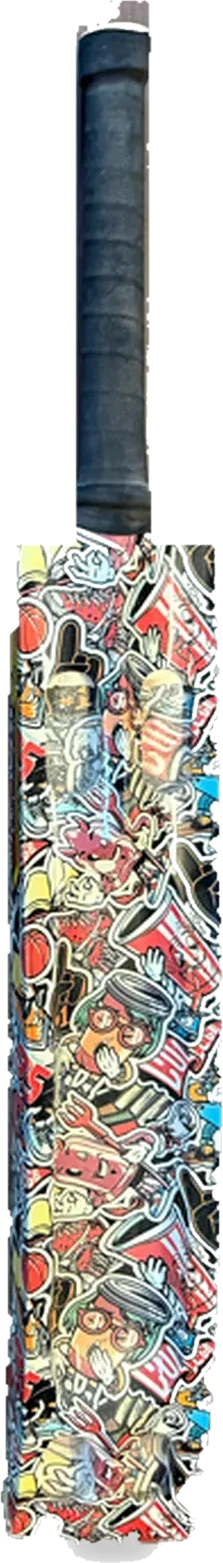
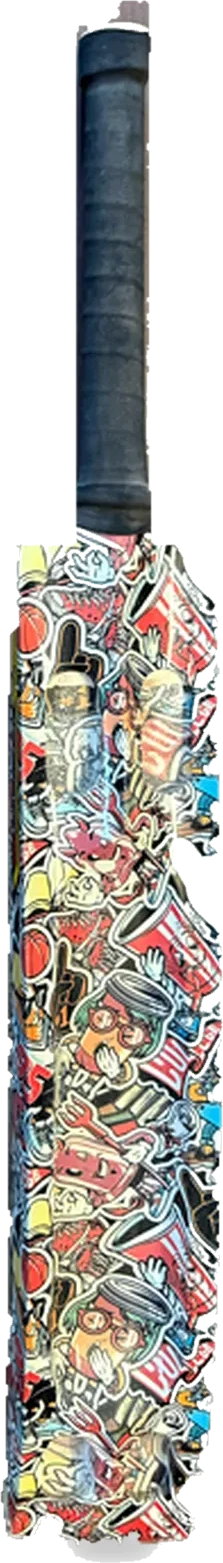
Use the face-on bat photos in the hero, and drop shadow islands in cutouts
Three of the four hero shots were the wrong frame from their own photo
set. The varnished bat and the leather-ball bat were EDGE-ON side views:
a bat photographed on its edge is a stick, so the cutout trimmed to
125px and 185px wide and there was nothing there to be sharp. No amount
of srcset work fixes a source that narrow.

  varnished-bat-2  125px side  ->  varnished-bat-3   248px face
  leather-ball-2   185px side  ->  leather-ball-1    272px face
  power-x-v2       186px       ->  power-x-front     213px face

Roughly double the horizontal resolution on two of the four, no
re-shoot, and both replacements are TOSS-branded where the side views
showed no branding at all.

The leather-ball side view also carried a studio artifact: a pale
tapering spike beside the handle that rendered on the page as a white
sliver next to the bat. It is gone with the frame.

cutout-photos.js now drops disconnected components under 2% of the
largest before feathering. The backdrop fill can only clear what it can
walk to from the frame edge, so a sweep shadow darker than TOL survives
as a detached island of opaque pixels — sri-lankan-mri-4 was shipping
14,085 such pixels. The floor is not zero because some frames hold two
bats and a genuine second object should survive; a shadow never
approaches 2%.

The hero's short-screen breakpoint moves 890px -> 930px. That number is
measured, not chosen: it marks where the full-size hero stops fitting,
[…]

diff --git a/seo/cutout-photos.js b/seo/cutout-photos.js
@@ -58,6 +58,68 @@ function backdropMask(data, w, h, ch) {
   return seen;
 }
 
+/* ------------------------------------------------------------
+   Drop everything that is not the product.
+
+   The backdrop fill can only clear pixels it can WALK TO from the
+   frame edge through near-white. That rule is what protects a
+   highlight enclosed by the blade — but it also protects anything
+   the walk cannot cross. A soft sweep shadow sitting at rgb(199)
+   is darker than TOL, so the fill stops dead at it and the whole
+   shadow survives as a detached island of opaque pixels.
+
+   That is exactly what was happening to the leather-ball bat: a
+   grey strip about 20px wide floating clear of the blade, which
+   rendered in the hero as a white sliver next to the bat and read
+   as a printing error.
+
+   A bat is one connected object, so anything not joined to the
+   largest blob is not the bat. Components under 2% of the largest
+   are cleared; the threshold is not zero because a genuine second
+   object in frame — some of these shots have two bats — should
+   survive, and a shadow never comes close to 2%.
+
+   8-connectivity, so a diagonal seam in the anti-aliasing cannot
+   split the blade from its own handle.
+   ------------------------------------------------------------ */
+function dropIslands(mask, w, h) {
+  const label = new Int32Array(w * h).fill(-1);
+  const sizes = [];
+  const stack = [];
+
+  for (let start = 0; start < mask.length; start++) {
+    if (mask[start] || label[start] !== -1) continue;   // backdrop, or done
+    const id = sizes.length;
+    let n = 0;
+    stack.push(start); label[start] = id;
+    while (stack.length) {
+      const i = stack.pop(); n++;
+      const x = i % w, y = (i / w) | 0;
+      for (let dy = -1; dy <= 1; dy++) {
+        for (let dx = -1; dx <= 1; dx++) {
+          if (!dx && !dy) continue;
+          const nx = x + dx, ny = y + dy;
+          if (nx < 0 || ny < 0 || nx >= w || ny >= h) continue;
+          const j = ny * w + nx;
+          if (mask[j] || label[j] !== -1) continue;
+          label[j] = id; stack.push(j);
+        }
+      }
+    }
+    sizes.push(n);
+  }
+
+  if (sizes.length < 2) return 0;                       // nothing detached
+  const biggest = Math.max(...sizes);
+  const floor = biggest * 0.02;
+  let removed = 0;
+  for (let i = 0; i < mask.length; i++) {
+    const id = label[i];
+    if (id >= 0 && sizes[id] < floor) { mask[i] = 1; removed++; }
+  }
+  return removed;
+}
+
 /* A hard mask leaves a stair-stepped edge that looks cheap at large
    sizes. Any pixel touching both states gets part alpha, which is
    enough to read as a clean cut. */
@@ -90,6 +152,11 @@ async function cut(file) {
      out would be wrong. Leave those alone rather than guess. */
   if (share < 0.15) return { file, skipped: 'not a white-sweep shot', share };
 
+  /* After the backdrop, before the feather: islands have to go while the
+     mask is still hard, or the feather would draw a soft edge around a
+     shadow we are about to delete. */
+  const islandPx = dropIslands(mask, w, h);
+
   const alpha = feather(mask, w, h);
   const out = Buffer.alloc(w * h * 4);
   for (let i = 0; i < w * h; i++) {
@@ -111,6 +178,7 @@ async function cut(file) {
   return {
     file, wrote: WRITE ? path.basename(dest) : '(dry run)',
     backdropRemoved: (share * 100).toFixed(0) + '%',
+    islands: islandPx ? islandPx + 'px' : '-',
     from: `${w}x${h}`, kb: after ? Math.round(after / 1024) + 'kB' : '-'
   };
 }
@@ -129,7 +197,10 @@ async function cut(file) {
   const skipped = done.filter(d => d.skipped);
   const failed  = done.filter(d => d.error);
 
-  made.forEach(d => console.log(`  cut  ${d.file}  (${d.backdropRemoved} backdrop)  ${d.kb}`));
+  /* The island count is worth printing: it is the number that tells you a
+     shadow or a reflection was being shipped as part of the product. */
+  made.forEach(d => console.log(`  cut  ${d.file}  (${d.backdropRemoved} backdrop)` +
+    (d.islands !== '-' ? `  islands ${d.islands}` : '') + `  ${d.kb}`));
   skipped.forEach(d => console.log(`  keep ${d.file}  — ${d.skipped}`));
   failed.forEach(d => console.log(`  FAIL ${d.file}  — ${d.error}`));
 

diff --git a/js/app.js b/js/app.js
@@ -798,21 +798,41 @@ function viewHome() {
      on a Retina one — which is the softness and the stair-stepped edges,
      not a bad cutout. The alpha edge measures 2% soft pixels and 0.3%
      leftover backdrop; the artwork was never the problem. */
+  /* FACE-ON SHOTS, and that is the quality fix.
+
+     Three of these were the wrong frame from their own photo set. The
+     varnished bat and the leather-ball bat were EDGE-ON side views —
+     a bat photographed on its edge is a stick, so the cutout trimmed to
+     125px and 185px wide and there was nothing there to be sharp. The
+     leather-ball side view also carried a studio artifact: a pale
+     tapering spike beside the handle, joined to the blade low down so it
+     survived every cleanup, and rendered on the page as a white sliver
+     next to the bat.
+
+     The face-on frames were sitting in images/product/ the whole time:
+
+       varnished-bat-2  125px  side  ->  varnished-bat-3   248px  face
+       leather-ball-2   185px  side  ->  leather-ball-1    272px  face
+       power-x-v2       186px        ->  power-x-front     213px  face
+
+     That is roughly double the horizontal resolution on two of the four,
+     no re-shoot, and the two replacements are TOSS-branded where the
+     side views showed no branding at all. */
   const HERO_SHOTS = [
-    { img: 'power-x-v2',        href: '#/product/power-x',
-      w: [59, 145, 186],
+    { img: 'power-x-front',      href: '#/product/power-x',
+      w: [69, 167, 213],
       alt: 'Toss Power X — handmade Sri Lankan willow bat',
       label: 'Toss Power X',       note: '3 years of research' },
-    { img: 'sri-lankan-mri-2',  href: '#/shop?wood=srilankan',
+    { img: 'sri-lankan-mri-2',   href: '#/shop?wood=srilankan',
       w: [75, 184, 216],
       alt: 'Sri Lankan willow tennis-ball cricket bat',
       label: 'Sri Lankan willow',  note: 'Dense grain, big ping' },
-    { img: 'varnished-bat-2',   href: '#/product/varnished-bat',
-      w: [41, 103, 125],
+    { img: 'varnished-bat-3',    href: '#/product/varnished-bat',
+      w: [81, 206, 248],
       alt: 'Varnished tennis-ball cricket bat',
       label: 'Varnished Bat',      note: 'Best seller' },
-    { img: 'leather-ball-bat-2', href: '#/shop',
-      w: [72, 177, 185],
+    { img: 'leather-ball-bat-1', href: '#/shop',
+      w: [91, 231, 272],
       alt: 'Leather-ball cricket bat made by Toss',
       label: 'Leather-ball bats',  note: 'For the harder game' }
   ];

diff --git a/css/styles.css b/css/styles.css
@@ -3343,12 +3343,15 @@ body.pdp-open .fab{bottom:82px}
    one of them is short. Width is still gated at 901px so this never
    fights the mobile layout below, which stacks and scrolls anyway.
 
-   890px is the threshold because that is where the FULL-SIZE hero stops
-   fitting — at 900px tall the row clears the fold by 11px, and any less
-   than about 889 it does not. Setting the breakpoint lower would leave a
+   930px is the threshold because that is where the FULL-SIZE hero stops
+   fitting. It used to be 890, measured when the copy column ended at the
+   proof line; the illustration note added a row and moved the number, so
+   a 900px screen was getting the big headline AND a clipped service row —
+   the exact fault this rule exists to remove. Re-measured, not nudged.
+   Setting the breakpoint lower would leave a
    band of screen heights getting the big headline AND a cut-off row,
    which is the exact fault this rule exists to remove. */
-@media (min-width:901px) and (max-height:890px){
+@media (min-width:901px) and (max-height:930px){
   /* Everything here is in vh so it degrades CONTINUOUSLY. Flat values
      were the first attempt and they produced a cliff: an 880px screen
      needed about 20px trimmed and got 200, so it rendered a visibly

diff --git a/index.html b/index.html
@@ -61,7 +61,7 @@
 <link rel="preconnect" href="https://fonts.googleapis.com">
 <link rel="preconnect" href="https://fonts.gstatic.com" crossorigin>
 <link href="https://fonts.googleapis.com/css2?family=Anton&family=Inter:wght@400;500;600;700;800;900&display=swap" rel="stylesheet">
-<link rel="stylesheet" href="css/styles.css?v=132">
+<link rel="stylesheet" href="css/styles.css?v=133">
 <link rel="icon" href="images/logo/favicon-32.png" sizes="32x32">
 <link rel="apple-touch-icon" href="images/logo/favicon-180.png">
 </head>
@@ -352,6 +352,6 @@
 <script src="js/chatbot.js?v=63"></script>
 <!-- after services.js and products.js: indexes SVC, PRODUCTS, WOOD and PROFILE -->
 <script src="js/search.js?v=1"></script>
-<script src="js/app.js?v=103"></script>
+<script src="js/app.js?v=104"></script>
 </body>
 </html>
